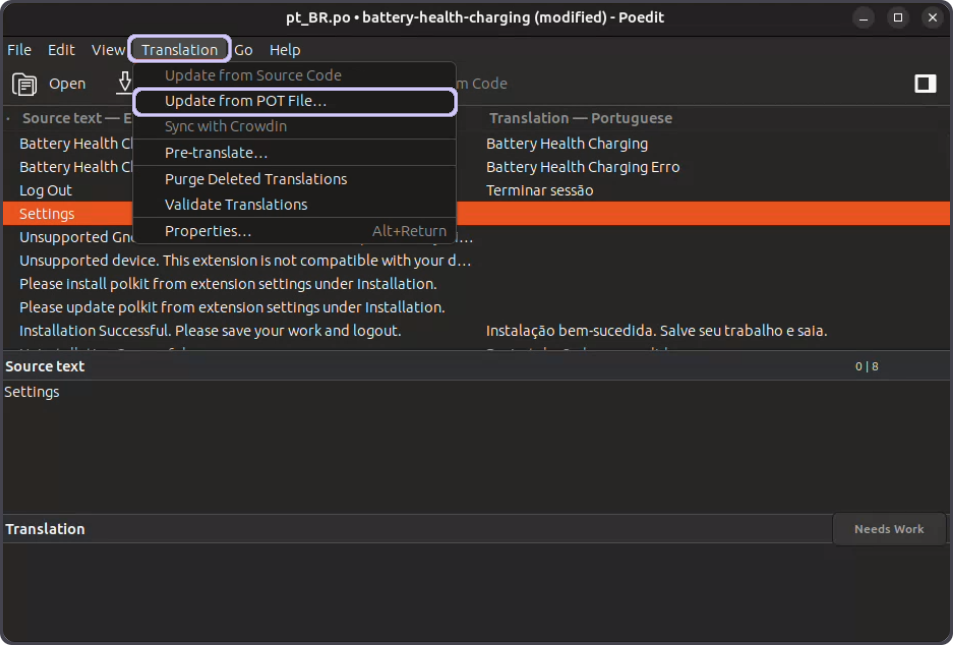
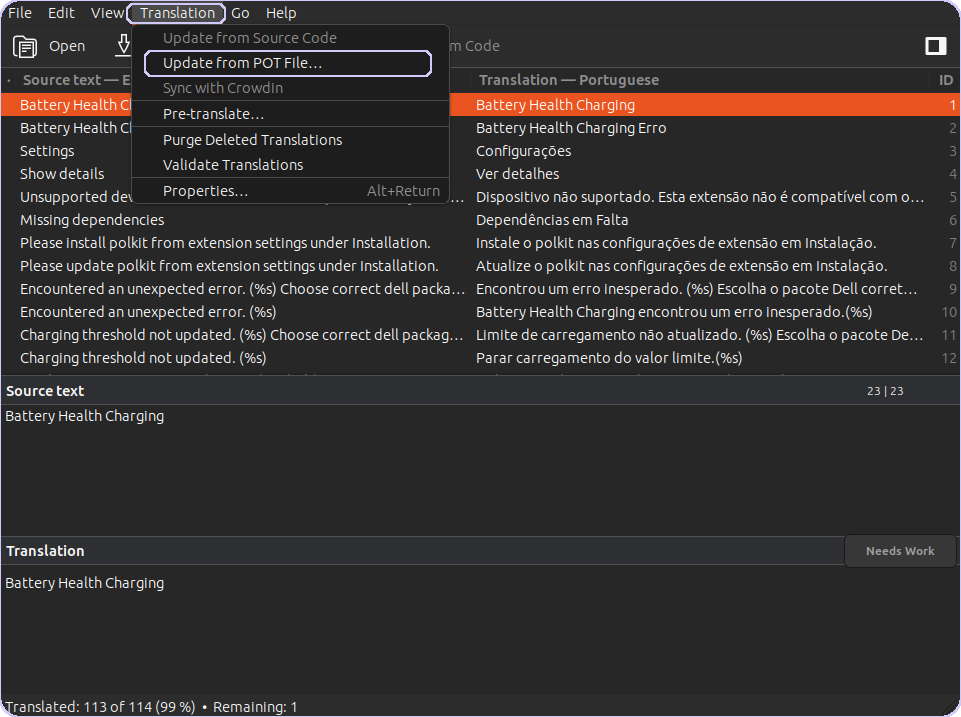
readme update

Changed region(s): [[0.0, 0.0, 1.0, 1.0], [0.8825, 0.5271, 0.9433, 0.5891]]

diff --git a/_includes/footer_custom.html b/_includes/footer_custom.html
@@ -1,0 +1,17 @@
+<footer role="contentinfo">
+  <br>
+  <p class="text-small text-grey-dk-000 mb-0">Explore My GNOME Extensions</p>
+  <div id='container1'>
+    <img src='./assets/images/footer/bhc-logo.png' width="4%" style='float: left; margin-right: 0.5rem;'/>
+    <p class="text-small text-grey-dk-000 mb-0"><a href="https://extensions.gnome.org/extension/5724/battery-health-charging/">Battery Health Charging:</a> An extension for setting Charging threshold for batteries on laptops</p>
+  </div>
+  <div id='container2'>
+    <img src='./assets/images/footer/bbm-logo.png' width="4%" style='float: left; margin-right: 0.5rem;'/>
+    <p class="text-small text-grey-dk-000 mb-0"><a href="https://extensions.gnome.org/extension/5724/bluetooth-battery-level/">Bluetooth Battery Meter:</a> An extension featuring indicator icons in system tray</p>
+  </div>
+  <br>
+  <br>
+  <p class="text-small text-grey-dk-000 mb-0">
+Copyright &copy; 2017-2020 Patrick Marsceill. Distributed by an <a href=\"https://github.com/just-the-docs/just-the-docs/tree/main/LICENSE.txt\">MIT license.</a> <a href=\"https://www.netlify.com/\">This site is powered by Netlify.</a><br>Build by maniacx for Battery Health Charging Gnome Extension
+  </p>
+</footer>

diff --git a/docs/License.md b/docs/License.md
@@ -667,7 +667,7 @@ state the exclusion of warranty; and each file should have at least
 the "copyright" line and a pointer to where the full notice is found.
 
     BATTERY HEALTH CHARGING GNOME Shell Extension
-    Copyright (C) 2022-2023  maniacx@github.com
+    Copyright (C) 2023-2024  maniacx@github.com
 
     This program is free software: you can redistribute it and/or modify
     it under the terms of the GNU General Public License as published by
@@ -688,7 +688,7 @@ Also add information on how to contact you by electronic and paper mail.
 notice like this when it starts in an interactive mode:
 
     BATTERY HEALTH CHARGING GNOME Shell Extension
-    Copyright (C) 2022-2023  maniacx@github.com
+    Copyright (C) 2023-2024  maniacx@github.com
     
     This program comes with ABSOLUTELY NO WARRANTY.
     This is free software, and you are welcome to redistribute it

diff --git a/docs/Translation/Poedit.md b/docs/Translation/Poedit.md
@@ -76,10 +76,18 @@ Begin by choosing one of the following methods:
 <img src="./assets/images/translation/poedit-guide/update-open-dialog.png" width="80%">
 
 ---
-### 3. Select the string to translate.
-### 4. Enter the translation for the selected string.
-### 5. Repeat for other strings.
-### 6. Once complete, click `Save`.
+### 3. Click `Translation` and `Update from POT File`
+<img src="./assets/images/translation/poedit-guide/update-pot-file.png" width="100%">
+
+---
+### 4. Select the pot file and Click `Open`
+<img src="./assets/images/translation/poedit-guide/update-pot.png" width="100%">
+
+---
+### 5. Select the string to translate.
+### 6. Enter the translation for the selected string.
+### 7. Repeat for other strings.
+### 8. Once complete, click `Save`.
 <img src="./assets/images/translation/poedit-guide/update-translation.png" width="100%">
 
 ---

diff --git a/docs/Credits.md b/docs/Credits.md
@@ -7,7 +7,7 @@ permalink: /credits
 
 ## Credits and Reference
 
-I made this extension for my Asus Viwobook. I refered to codes of other extensions to create this extension.
+I made this extension for my Asus Viwobook. I referred to codes of other extensions to create this extension.
 
 ### Credits to them.
 
